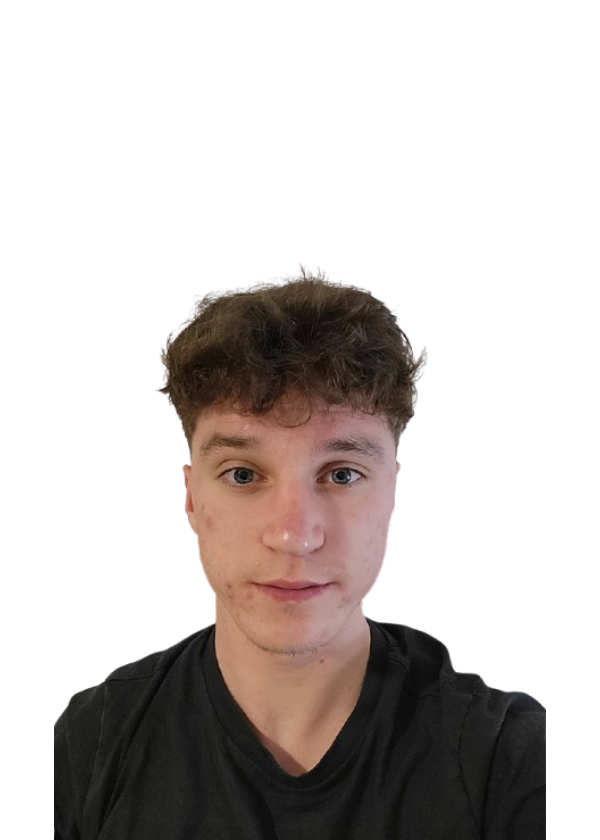
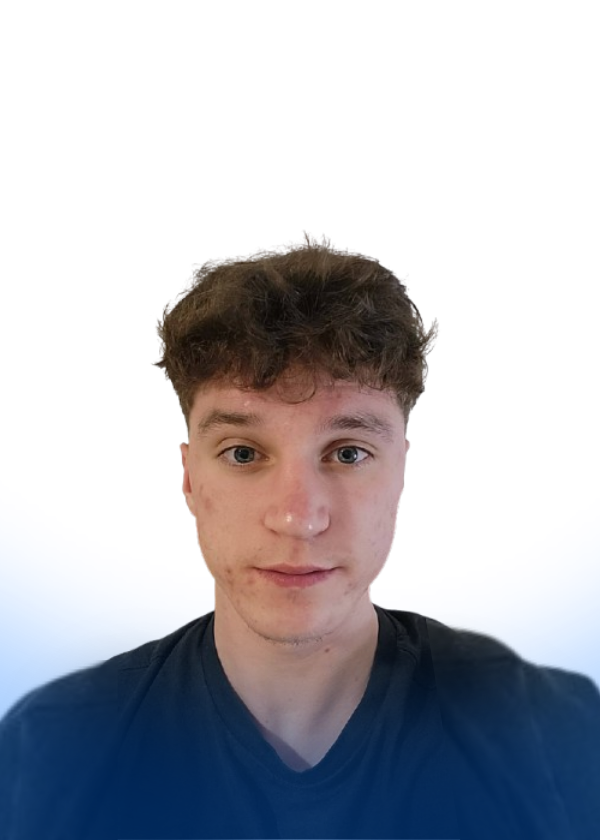
pfp change

diff --git a/components/split-blue-section.tsx b/components/split-blue-section.tsx
@@ -29,8 +29,8 @@ export default function SplitBlueSection() {
 
     const teamMembers: TeamMember[] = translatedMembers.map((member) => ({
         ...member,
-        avatarUrl: member.name === "Jernej Peternel" ? "/team/1.png" : "/team/2.png",
-        miniAvatarUrl: member.name === "Jernej Peternel" ? "/team/1.png" : "/team/2.png",
+        avatarUrl: member.name === "Jernej Peternel" ? "/team/2.png" : "/team/1.png",
+        miniAvatarUrl: member.name === "Jernej Peternel" ? "/team/2.png" : "/team/1.png",
         status: "Online"
     }))
 
